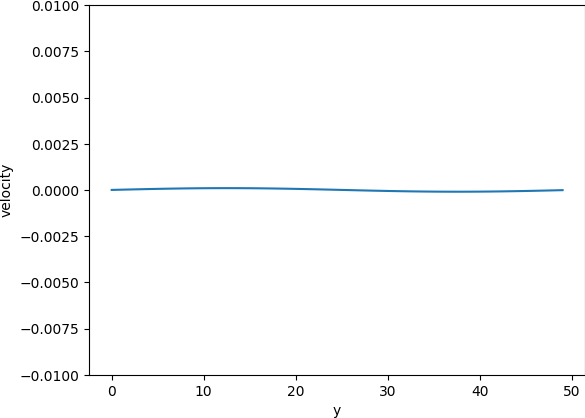
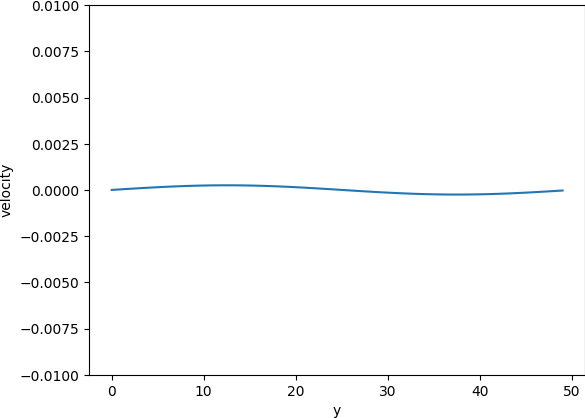
Fixed shear wave again

Changed region(s): [[0.2154, 0.4354, 0.9538, 0.4665]]

diff --git a/plot.py b/plot.py
@@ -31,7 +31,7 @@ class Plotter:
         if experiment == "density":
             self.axes[0].cla()
             self.axes[0].set_ylim([-epsilon + p0, epsilon + p0])
-            self.axes[0].plot(np.arange(nx), rho.T[ny//2, :])
+            self.axes[0].plot(np.arange(nx), rho[:, ny//2], linestyle=':')
             self.axes[0].set_xlabel('x')
             self.axes[0].set_ylabel('density')
             save_path = os.path.join(
@@ -40,7 +40,7 @@ class Plotter:
         else:
             self.axes[0].cla()
             self.axes[0].set_ylim([-epsilon, epsilon])
-            self.axes[0].plot(np.arange(ny), velocities[0, nx//2, :])
+            self.axes[0].plot(np.arange(ny), velocities[0, nx//2, :], linestyle=':')
             self.axes[0].set_xlabel('y')
             self.axes[0].set_ylabel('velocity')
             save_path = os.path.join(
@@ -80,7 +80,7 @@ class Plotter2:
         self.axes[0].set_xlim([-0.01, wall_velocity[1]])
         self.axes[0].axhline(0.0, color='k')
         self.axes[0].axhline(ny-1, color='r')
-        self.axes[0].plot(velocities[0, nx//2, :], y)
+        self.axes[0].plot(velocities[0, nx//2, :], y, linestyle=':')
         self.axes[0].plot(analytical, y)
         self.axes[0].set_ylabel('y')
         self.axes[0].set_xlabel('velocity')
@@ -109,7 +109,7 @@ class Plotter3:
                       (ny - 1 - y)) / dynamic_viscosity
         # axes[0].set_xlim([0, np.max(analytical) + 0.001])
 
-        self.axes[0].plot(velocities[0, nx//2, :], y)
+        self.axes[0].plot(velocities[0, nx//2, :], y, linestyle=':')
         self.axes[0].plot(analytical, y)
         self.axes[0].set_ylabel('y')
         self.axes[0].set_xlabel('velocity')

diff --git a/poiseuille_flow.py b/poiseuille_flow.py
@@ -2,7 +2,7 @@ import numpy as np
 from lb import LatticeBoltzmann, RigidWall, PortalWall
 from plot import Plotter3
 
-def poiseuille_flow_sim(nx: int = 100, ny: int = 50, pressure_left= 3.005, pressure_right= 3.0, omega: float = 0.3, steps: int = 2001):
+def poiseuille_flow_sim(nx: int = 100, ny: int = 50, pressure_left= 3.005, pressure_right= 3.0, omega: float = 0.3, steps: int = 4001):
     
     rho = np.ones((nx, ny))
     velocities = np.zeros((2, nx, ny))
@@ -17,7 +17,7 @@ def poiseuille_flow_sim(nx: int = 100, ny: int = 50, pressure_left= 3.005, press
         latticeBoltzmann.tick()
         
         # plot every 200 steps 
-        if((step % 200 == 0)):
+        if((step % 400 == 0)):
             for boundary in latticeBoltzmann.boundaries:
                 boundary.update_velocity(latticeBoltzmann.velocities)
 

diff --git a/lb/boundaries.py b/lb/boundaries.py
@@ -96,11 +96,11 @@ class MovingWall(Boundary):
         if (self.placement == 'top'):
             velocities.T[0, :] = np.roll(self.velocity, 1)
         elif (self.placement == 'bottom'):
-            velocities[-1, :] = np.roll(self.velocity, 1)
+            velocities.T[-1, :] = np.roll(self.velocity, 1)
         elif (self.placement == 'left'):
-            velocities[:, 0] = np.roll(self.velocity, 1)
+            velocities.T[:, 0] = np.roll(self.velocity, 1)
         elif (self.placement == 'right'):
-            velocities[:, -1] = np.roll(self.velocity, 1)
+            velocities.T[:, -1] = np.roll(self.velocity, 1)
         else:
             raise ValueError("Invalid placement: {}".format(self.placement))
 

diff --git a/shearWave.py b/shearWave.py
@@ -14,13 +14,13 @@ def shear_wave_sim(experiment, viscosity = False, nx: int = 50, ny: int = 50, om
 
     if(experiment == "density"):
        # shear wave experiment 1 (density)
-        rho = p0 + epsilon * np.sin(2 * np.pi * x / nx)
+        rho = (p0 + epsilon * np.sin(2 * np.pi * x / nx)).T
         velocities = np.zeros((2, nx, ny))
     elif(experiment == "velocity"):
          # shear wave experiment 2 (velocity)
         rho = np.ones((nx, ny))
         velocities = np.zeros((2, nx, ny))
-        velocities[0, :, :] = epsilon * np.sin(2 * np.pi * y / ny)
+        velocities[0, :, :] = (epsilon * np.sin(2 * np.pi * y / ny)).T
     else:
         print("Invalid experiment")
         return

diff --git a/lb/latticeBoltzmann.py b/lb/latticeBoltzmann.py
@@ -9,7 +9,7 @@ class LatticeBoltzmann():
         self.omega = omega
         self.boundaries = boundaries
         self.f = calculate_equilibrium(self.rho, self.velocities)
-        self.feq = self.f
+        self.feq = self.f.copy()
         
 
     # Executes one time step for the Lattice Boltzmann method
